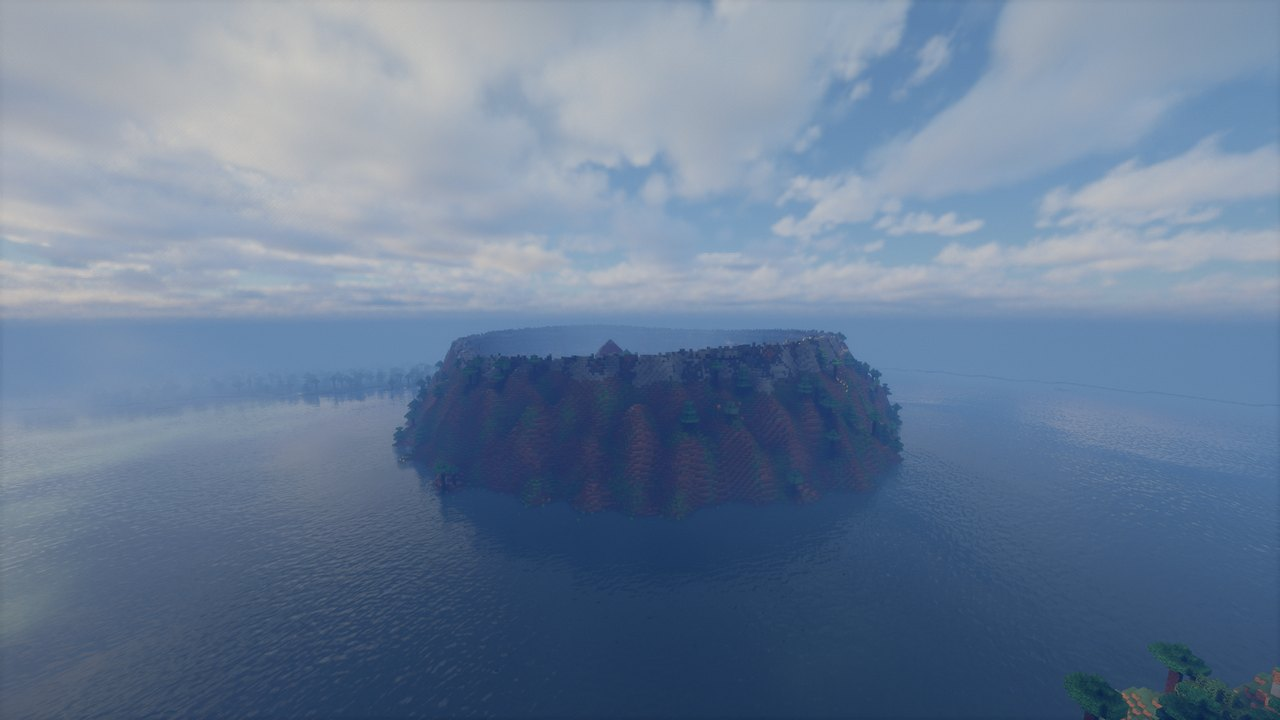
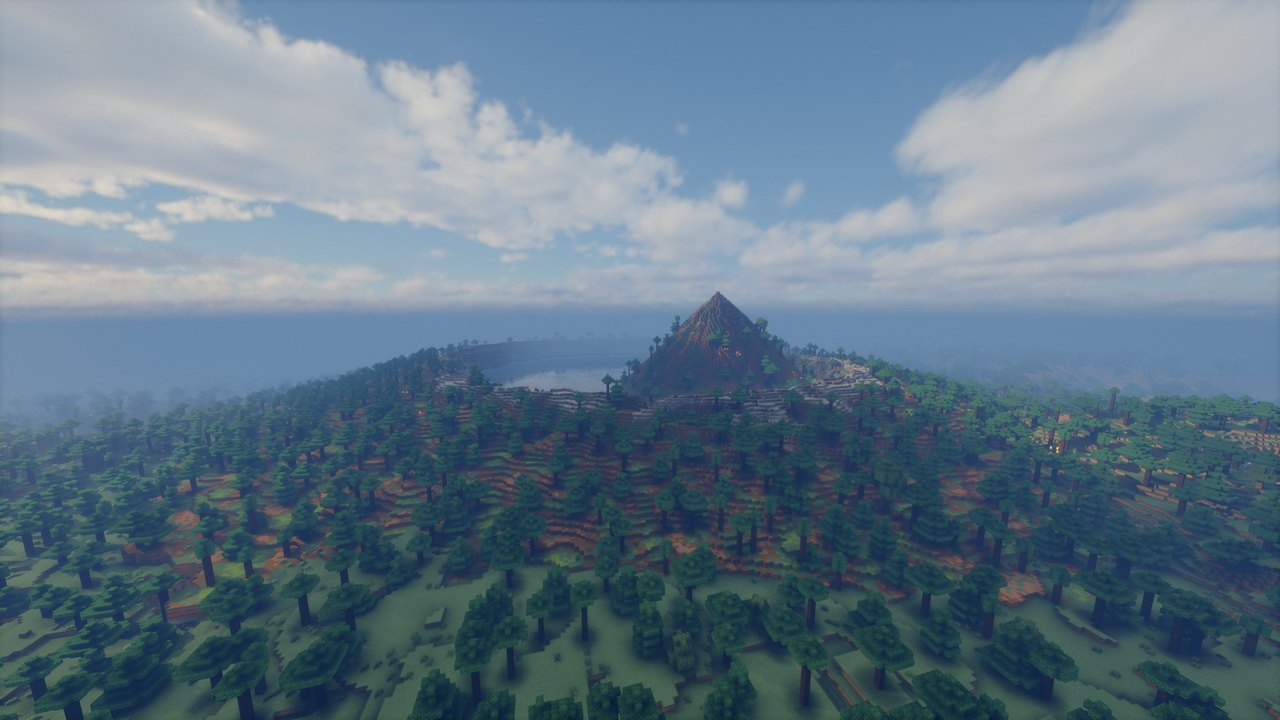
Krenitsyn caldera modelled on the real one: broad lake ring around an off-centre ribbed cone, inland highland (0.6.0-beta.3)

diff --git a/common/src/main/kotlin/io/github/menonng/biomesmod/terrain/landform/CalderaShape.kt b/common/src/main/kotlin/io/github/menonng/biomesmod/terrain/landform/CalderaShape.kt
@@ -37,6 +37,7 @@ class CalderaShape internal constructor(
 	internal val breachWidth: Float,
 	internal val floorBlock: Optional<BlockState>,
 	internal val green: Float,
+	internal val coneOffset: Span,
 ) : LandformShape() {
 	override fun name(): String = NAME
 
@@ -57,7 +58,7 @@ class CalderaShape internal constructor(
 		val inst = Instance(site, base, foot, crest, rad, r.range(flank), r.angle())
 		if (r.chance(cone.toDouble())) {
 			val a = r.angle()
-			val off = rad * r.range(0.0, 0.35)
+			val off = rad * r.range(coneOffset.min.toDouble(), coneOffset.max.toDouble())
 			inst.cone(site.x + Math.cos(a) * off, site.z + Math.sin(a) * off, r.range(coneRadius), r.range(coneHeight))
 		}
 		return inst
@@ -155,7 +156,9 @@ class CalderaShape internal constructor(
 				if (cd < cw) {
 					val t = cd / cw
 					val ch = floorY + (if (water != Col.NONE) max(0, water - floorY).toDouble() else 0.0) + cch
-					var h = floorY + (ch - floorY) * (1 - t).pow(1.3)
+					// Radial gullies scored down the cone, deepest on the lower slopes (Krenitsyn's ribbed flanks).
+					val gully = abs(LNoise.angular(seed xor 0x7E1, ca + 0.15 * LNoise.noise1(seed xor 0x7E2, cd / 10), 26.0)).pow(2)
+					var h = floorY + (ch - floorY) * (1 - t).pow(1.25) * (1 - 0.14 * gully * sqrt(t))
 					if (t < 0.18) {
 						h -= (0.18 - t) / 0.18 * 4 // small summit crater
 					}
@@ -225,8 +228,9 @@ class CalderaShape internal constructor(
 				Codec.floatRange(0.1f, 2f).optionalFieldOf("breach_width", 0.5f).forGetter { it.breachWidth },
 				BlockState.CODEC.optionalFieldOf("floor_block").forGetter { it.floorBlock },
 				Codec.floatRange(0f, 1f).optionalFieldOf("green", 0f).forGetter { it.green },
-			).apply(i) { radius, rimHeight, flank, floor, floorDepth, cone, coneRadius, coneHeight, breachWidth, floorBlock, green ->
-				CalderaShape(radius, rimHeight, flank, floor, floorDepth, cone, coneRadius, coneHeight, breachWidth, floorBlock, green)
+				Span.CODEC.optionalFieldOf("cone_offset", Span.of(0.0, 0.35)).forGetter { it.coneOffset },
+			).apply(i) { radius, rimHeight, flank, floor, floorDepth, cone, coneRadius, coneHeight, breachWidth, floorBlock, green, coneOffset ->
+				CalderaShape(radius, rimHeight, flank, floor, floorDepth, cone, coneRadius, coneHeight, breachWidth, floorBlock, green, coneOffset)
 			}
 		}
 	}

diff --git a/docs/biomes/README.md b/docs/biomes/README.md
@@ -29,7 +29,7 @@ Every real-place biome of the mod next to the place that inspired it: the real s
 | [**Great Barrier Reef**](great_barrier_reef.md)<br>그레이트 배리어 리프<br><sub>Central Great Barrier Reef, outer reefs off Townsville, Australia<br>flat low basin, y=55</sub> | [<img src="img/great_barrier_reef-satellite.jpg" alt="satellite" width="230">](great_barrier_reef.md) | [<img src="img/great_barrier_reef-map.jpg" alt="map" width="230">](great_barrier_reef.md) | [<img src="img/great_barrier_reef-view.jpg" alt="view" width="230">](great_barrier_reef.md) |
 | [**Ha Long Bay**](ha_long_bay.md)<br>하롱베이<br><sub>Hạ Long Bay (Bái Tử Long side, Vân Đồn), Vietnam<br>flat low basin, y=55</sub> | [<img src="img/ha_long_bay-satellite.jpg" alt="satellite" width="230">](ha_long_bay.md) | [<img src="img/ha_long_bay-map.jpg" alt="map" width="230">](ha_long_bay.md) | [<img src="img/ha_long_bay-view.jpg" alt="view" width="230">](ha_long_bay.md) |
 | [**Iguazu Falls**](iguazu_falls.md)<br>이구아수 폭포<br><sub>Iguazu Falls (Devil's Throat), Argentina / Brazil<br>raised land, y=72</sub> | [<img src="img/iguazu_falls-satellite.jpg" alt="satellite" width="230">](iguazu_falls.md) | [<img src="img/iguazu_falls-map.jpg" alt="map" width="230">](iguazu_falls.md) | [<img src="img/iguazu_falls-view.jpg" alt="view" width="230">](iguazu_falls.md) |
-| [**Krenitsyn Caldera**](krenitsyn_caldera.md)<br>크레니친 칼데라<br><sub>Krenitsyn Peak in Lake Koltsevoye (Tao-Rusyr caldera), Onekotan, Russia (Kuril Islands)<br>original terrain, shaped by landforms</sub> | [<img src="img/krenitsyn_caldera-satellite.jpg" alt="satellite" width="230">](krenitsyn_caldera.md) | [<img src="img/krenitsyn_caldera-map.jpg" alt="map" width="230">](krenitsyn_caldera.md) | [<img src="img/krenitsyn_caldera-view.jpg" alt="view" width="230">](krenitsyn_caldera.md) |
+| [**Krenitsyn Caldera**](krenitsyn_caldera.md)<br>크레니친 칼데라<br><sub>Krenitsyn Peak in Lake Koltsevoye (Tao-Rusyr caldera), Onekotan, Russia (Kuril Islands)<br>raised land, y=81</sub> | [<img src="img/krenitsyn_caldera-satellite.jpg" alt="satellite" width="230">](krenitsyn_caldera.md) | [<img src="img/krenitsyn_caldera-map.jpg" alt="map" width="230">](krenitsyn_caldera.md) | [<img src="img/krenitsyn_caldera-view.jpg" alt="view" width="230">](krenitsyn_caldera.md) |
 | [**Lake Gairdner**](lake_gairdner.md)<br>게어드너 호<br><sub>Lake Gairdner, Australia (South Australia)<br>flat plateau, y=68</sub> | [<img src="img/lake_gairdner-satellite.jpg" alt="satellite" width="230">](lake_gairdner.md) | [<img src="img/lake_gairdner-map.jpg" alt="map" width="230">](lake_gairdner.md) | [<img src="img/lake_gairdner-view.jpg" alt="view" width="230">](lake_gairdner.md) |
 | [**Vostok Plateau**](lake_vostok_plateau.md)<br>보스토크 고원<br><sub>East Antarctic Plateau over Lake Vostok, Antarctica<br>flat plateau, y=227</sub> | [<img src="img/lake_vostok_plateau-satellite.jpg" alt="satellite" width="230">](lake_vostok_plateau.md) | [<img src="img/lake_vostok_plateau-map.jpg" alt="map" width="230">](lake_vostok_plateau.md) | [<img src="img/lake_vostok_plateau-view.jpg" alt="view" width="230">](lake_vostok_plateau.md) |
 | [**Lauterbrunnen Valley**](lauterbrunnen.md)<br>라우터브루넨 계곡<br><sub>Lauterbrunnen Valley (Staubbach Falls), Switzerland<br>raised land, y=135</sub> | [<img src="img/lauterbrunnen-satellite.jpg" alt="satellite" width="230">](lauterbrunnen.md) | [<img src="img/lauterbrunnen-map.jpg" alt="map" width="230">](lauterbrunnen.md) | [<img src="img/lauterbrunnen-view.jpg" alt="view" width="230">](lauterbrunnen.md) |

diff --git a/README.md b/README.md
@@ -63,7 +63,7 @@ Because of them, clients need the mod installed to join a server that runs it.
 | `great_barrier_reef` | Great Barrier Reef / 그레이트 배리어 리프 | overworld | site, basin y=55, island | 41 |
 | `ha_long_bay` | Ha Long Bay / 하롱베이 | overworld | site, basin y=55, island | 22 |
 | `iguazu_falls` | Iguazu Falls / 이구아수 폭포 | overworld | site, lift y=72 | 9 |
-| `krenitsyn_caldera` | Krenitsyn Caldera / 크레니친 칼데라 | overworld | site, keep | 2 |
+| `krenitsyn_caldera` | Krenitsyn Caldera / 크레니친 칼데라 | overworld | site, lift y=81 (450 m) | 2 |
 | `lake_gairdner` | Lake Gairdner / 게어드너 호 | overworld | site, plateau y=68 | 42 |
 | `lake_vostok_plateau` | Vostok Plateau / 보스토크 고원 | overworld | site, plateau y=227 (3488 m) | 50 |
 | `lauterbrunnen` | Lauterbrunnen Valley / 라우터브루넨 계곡 | overworld | site, lift y=135 (1850 m), ridges | 23 |

diff --git a/docs/biomes/krenitsyn_caldera.md b/docs/biomes/krenitsyn_caldera.md
@@ -4,7 +4,7 @@
 
 Onekotan's southern Tao-Rusyr caldera holds the ring-shaped Lake Koltsevoye, with the young Krenitsyn cone (1324 m) rising from the water as an island.
 
-**In game:** `biomesmod:krenitsyn_caldera`, a site of 760–960 blocks across (original terrain, shaped by landforms). Find the nearest one with `/biomesmod sites krenitsyn_caldera`.
+**In game:** `biomesmod:krenitsyn_caldera`, a site of 800–1040 blocks across (raised land, y=81). Find the nearest one with `/biomesmod sites krenitsyn_caldera`.
 
 | Satellite (real place) | In-game map (top-down) | In-game view |
 |---|---|---|
